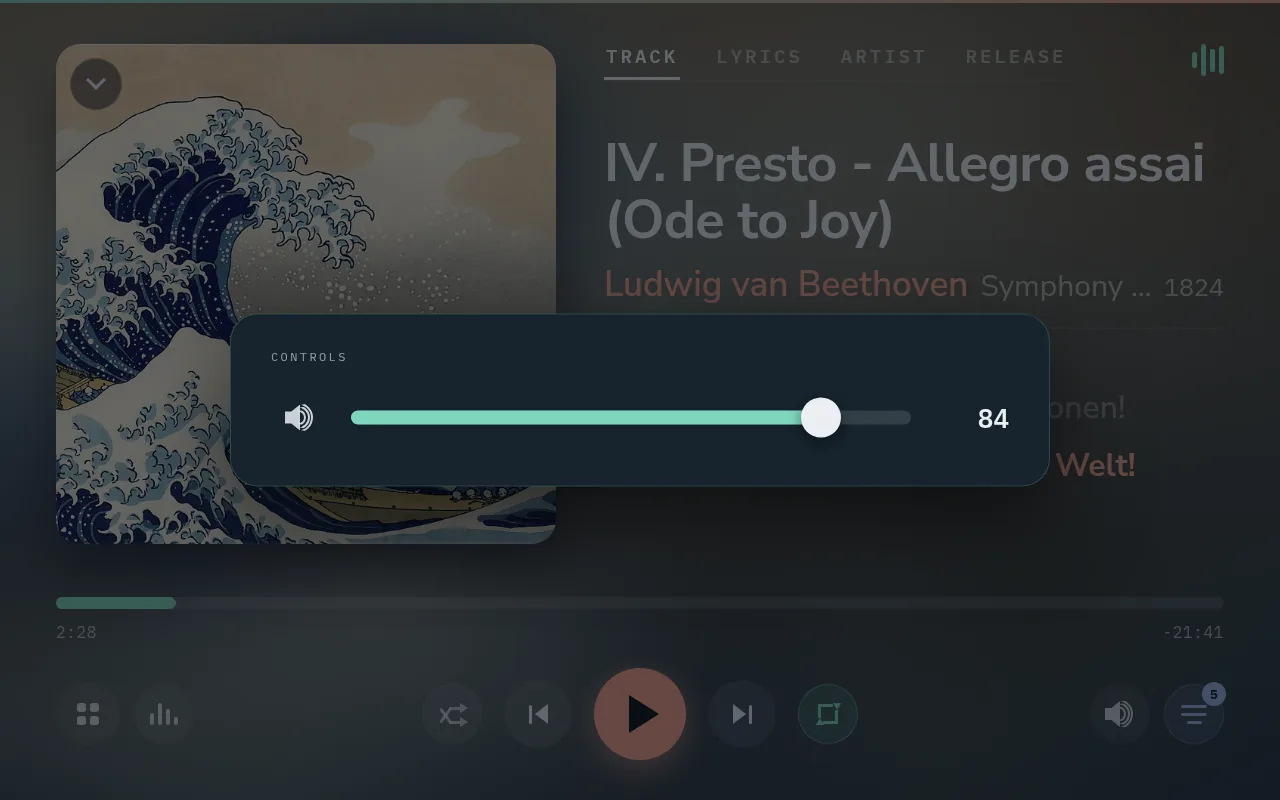
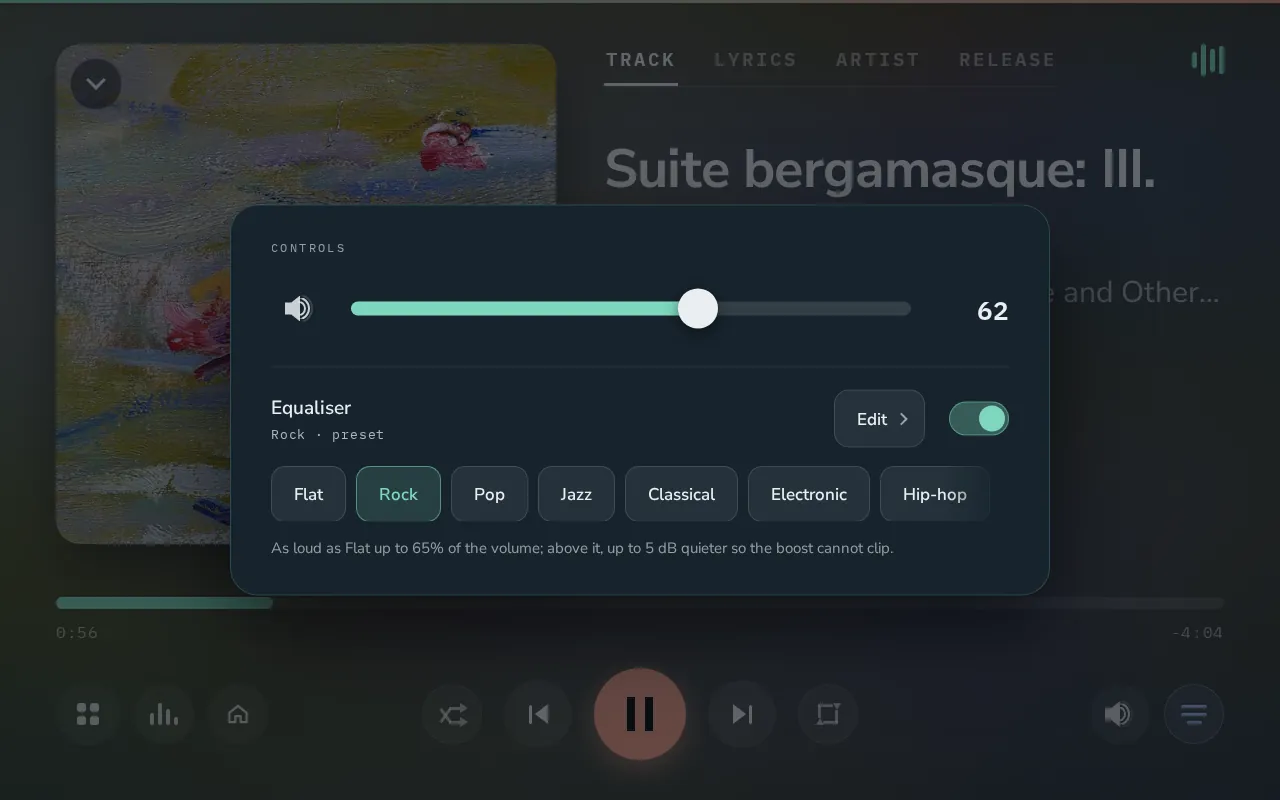
1.7.0 on Stable; Phases 20 and 21 closed (George); the manual's volume drawer picture with the equaliser (demo library); README, DEVELOPMENT, ADRs, HANDOFF

diff --git a/HANDOFF.md b/HANDOFF.md
@@ -20,20 +20,24 @@ and the ideas as Must / Should / Could. It follows `docs/DEVELOPMENT.md`'s
 phases; change it when a phase opens, closes or moves, and show George first. History: `docs/HANDOFF-ARCHIVE.md`
 (search it; never read it whole).
 
-**Current release: 1.7.0 on Testing, 1.6.0 on Stable** (2026-10-27;
-Testing serial 57, Stable serial 10). 1.7.0 carries Phases 20 and 21 (the
+**Current release: 1.7.0, on Stable** (promoted 2026-10-27 at George's
+word: Stable serial 11, Testing serial 57, both read back with good
+signatures; r1.7.0 is GitHub's latest; the public `gexis-player.img.xz`
+through `releases/latest/download` passes its checksum and signature and
+decompresses to the checked image). 1.7.0 carries Phases 20 and 21 (the
 equaliser, the phone remote, mute with Fixed volume); PR #85 merged by George
-the same day, `main` merged into `docs` and `next`, the release branch and
-worktree gone, the routine clean-up run. Image
+the same day. README's current release: PR #86 (`stable-1.7.0`, worktree
+`~/projects/gexis-player-stable170`) waits for George's merge; after it,
+`main` into `docs` and `next`, the branch and worktree removed. Image
 `image/deploy/2026-10-27-gexis-player-v1.7.0.img`; build output
-`~/projects/gexis-release-out/r1.7.0`. Stable when George says
-(`publish.sh --promote r1.7.0`, then the README's *Download and install*).
-The release's detail is in the archive (2026-10-27, 1.7.0).
+`~/projects/gexis-release-out/r1.7.0`. The release's detail is in the
+archive (2026-10-27, 1.7.0).
 **R2D2's `/` fills up**: Docker's containerd store keeps images on `/`, not
 in `/home/docker`, and pi-gen rebuilds its 1.16 GB build image on every
 image build; check `df -h /` before one (1.9 GB free after 1.7.0's).
-**Next:** George's word on Stable; the Harmony ideas for the wiki (drafted,
-not pushed); the remote's laptop background into `next` after his look.
+**Next:** PR #86; the wiki Roadmap (the closed phases and the Harmony
+ideas, drafted, shown to George, not pushed); then Phase 22 when George
+picks it up.
 
 **The release key** moved to `~/projects/gexis-release-key` (George,
 2026-10-24): every release command sets
@@ -80,23 +84,15 @@ default list**: hacs/default#12691 (from George's fork `gcarstoiu/default`),
 every automated check passed; it waits for HACS's maintainers - do not ask
 them for a review (their template).
 
-**Phase 20, the equaliser** (`ph-equaliser`, ADR-0162): built, previewed,
-in 1.7.0; its branch is in `main` (worktree removed, the GitHub branch kept
-while the phase is open). **Open:** the measurement through sofapi's card (it
-plays through the amplifier: at a time George picks), with the give-back's
-checks (ADR-0162 *Not yet done*); the manual's drawer picture, retaken with
-the demo library.
-
-**Phase 21, the phone remote** (`ph-phone-controls` in
-`~/projects/gexis-player-ph-phone-controls`, ADR-0164, ADR-0165): built,
-George's findings over five rounds fixed, C1-C13 confirmed, in 1.7.0; the
-Home Assistant card follows it in the integration's 0.5.0 (ADR-0163 15-17,
-C1-C7 shown to George). **Open:** the remote's background inside the column
-on a laptop (5596698e, on the branch only; on sofapi since 18:21 - ui and
-player `1.7.0+git5.5596698` over the release's core) into `next` after
-George's look. Mocked-data checks: `~/projects/scratch/ph21` (`run2.sh`,
-`remote_shots2.py`, `run_manual2.sh`) and `~/projects/scratch/hacard`
-(`run.sh`, the card).
+**Phases 20 (the equaliser) and 21 (the phone remote) closed 2026-10-27**
+(George, with 1.7.0's promotion; `docs/DEVELOPMENT.md` has what each
+criterion rests on). `ph-equaliser` is gone (in `main`). The remote's laptop
+background (5596698e) was merged into `next` after 1.7.0 (222edb08), so
+`ph-phone-controls` and its worktree stay until the next release takes it to
+`main` (ROUTINE-CLEANUP). Left from Phase 20: the measurement through a card
+(to-do `eq-measure`, at a time George picks). Mocked-data checks:
+`~/projects/scratch/ph21` (`run2.sh`, `remote_shots2.py`, `run_manual2.sh`)
+and `~/projects/scratch/hacard` (`run.sh`, the card).
 
 Then 22-30 in order, each ADR first (`docs/DEVELOPMENT.md`, the IDs
 there); MPD parked (ADR-0151). **Raspberry Pi Imager** (ADR-0159, a task):
@@ -111,10 +107,10 @@ every merged release PR, otherwise weekly on Sunday evening. **Last run:
 
 ## Phases
 
-Closed: 0-19 (13 with letters a-f). Phases are numbered consecutively
-without letters, each with a stable ID (George, 2026-10-13); 20 and 21
-(the phone remote, `ph-phone-controls`, added by George on 2026-10-26) in
-progress, 22-30 to come, MPD parked. `docs/DEVELOPMENT.md` holds each phase's acceptance criteria.
+Closed: 0-21 (13 with letters a-f). Phases are numbered consecutively
+without letters, each with a stable ID (George, 2026-10-13); 20 (the
+equaliser) and 21 (the phone remote) closed 2026-10-27 with 1.7.0; 22-30 to
+come, none started, MPD parked. `docs/DEVELOPMENT.md` holds each phase's acceptance criteria.
 
 ## Machines
 

diff --git a/docs/DEVELOPMENT.md b/docs/DEVELOPMENT.md
@@ -3202,6 +3202,15 @@ sofapi as a preview, waiting for George's check.
 
 **ID:** `ph-equaliser` · added 2026-10-25 as 20, before room correction (George).
 
+**Closed 2026-10-27** (George, promoting 1.7.0 to Stable), in 1.7.0.
+Criteria 1 (a preset or the bands from the phone, heard without stopping)
+and 4 (no clipping, the headroom by the curve, ADR-0162 D3) seen by George on
+a test player and in Finding 138's silent measurement; 3 (off is
+bit-perfect) by design (D5); 2 and 5 in part - every source through it and
+the visualiser working (the float fix), its cost recorded (Finding 138). Not
+measured: the delay through a card, players in sync, a rate change heard
+through the amplifier (to-do `eq-measure`, left for a time George picks).
+
 **Added 2026-10-25** (George, proposed the day before): an equaliser with a
 few presets and a manual setup, running in CamillaDSP, before any room
 correction. Room correction's hard part is the filter stage in the audio
@@ -3276,6 +3285,13 @@ gap or click at a change of sample rate.
 ### Phase 21 — The phone's quick actions and touchpad, redesigned
 
 **ID:** `ph-phone-controls` · added 2026-10-26 as 21, after the equaliser (George).
+
+**Closed 2026-10-27** (George, promoting 1.7.0 to Stable), in 1.7.0, the
+remote's laptop background merged into `next` after it. Criteria 1-4, 6
+and 7 checked from mocked data and on a test player through George's five
+rounds of findings; 8, the Home Assistant card, in the integration's 0.5.0.
+Not seen: mute with Fixed volume heard through an amplifier (5; ADR-0165
+*Not verified*, native DSD).
 
 **Added 2026-10-26** (George, before Phase 20 closes): a redesign of the
 phone page's quick actions and its touch area, the touchpad. Room correction

diff --git a/docs/decisions/0162-a-simple-equaliser.md b/docs/decisions/0162-a-simple-equaliser.md
@@ -1,6 +1,6 @@
 # ADR-0162 — A simple equaliser
 
-**Status:** **Built** — 2026-10-26, on `ph-equaliser`, in 1.7.0 (Testing, 2026-10-27), not yet measured
+**Status:** **Built** — 2026-10-26, on `ph-equaliser`, in 1.7.0 (Stable, 2026-10-27; Phase 20 closed by George the same day), not yet measured
 through a card (below, *Built*). C1-C18 confirmed by George on 2026-10-26;
 D3 amended the same day (the volume gives the headroom back), after his
 question on it. The settings confirmed by

diff --git a/README.md b/README.md
@@ -52,7 +52,7 @@ Spotify Premium, and Plexamp a Plex account, on Plex's terms.
 
 ## 💾 Download and install
 
-**Gexis Player 1.6.0** is the current release. You need a Raspberry Pi 4 and a
+**Gexis Player 1.7.0** is the current release. You need a Raspberry Pi 4 and a
 microSD card of 32 GB or more. A DAC gives the best sound (the
 [hardware list](docs/HARDWARE.md) says which are tested), but the Pi's own
 HDMI (to a sound bar or AV receiver) or headphone jack works too; an HDMI

diff --git a/docs/decisions/0164-the-phone-remote.md b/docs/decisions/0164-the-phone-remote.md
@@ -2,7 +2,7 @@
 
 **Status:** **Built** 2026-10-27 on `ph-phone-controls` from the second
 design (below, *Built (2026-10-27)*), previewed on sofapi, in 1.7.0
-(Testing, 2026-10-27).
+(Stable, 2026-10-27; Phase 21 closed by George the same day).
 **Accepted, revised** — George, 2026-10-27: Claude Design's
 second remote (`design/source/21`, `Phone Remote v3`) replaces the first;
 build it, with his answers to the three points where it left the current

diff --git a/docs/decisions/0165-mute-with-fixed-output.md b/docs/decisions/0165-mute-with-fixed-output.md
@@ -1,6 +1,6 @@
 # ADR-0165 — Mute with fixed output
 
-**Status:** **Built** 2026-10-27 on `ph-phone-controls`, in 1.7.0 (Testing), checked from
+**Status:** **Built** 2026-10-27 on `ph-phone-controls`, in 1.7.0 (Stable), checked from
 mocked data (the phone's row, the panel's drawer and the bar's tray) and
 previewed on sofapi; not yet heard through an amplifier. **Accepted** —
 George, 2026-10-27: the second Phase 21 design
